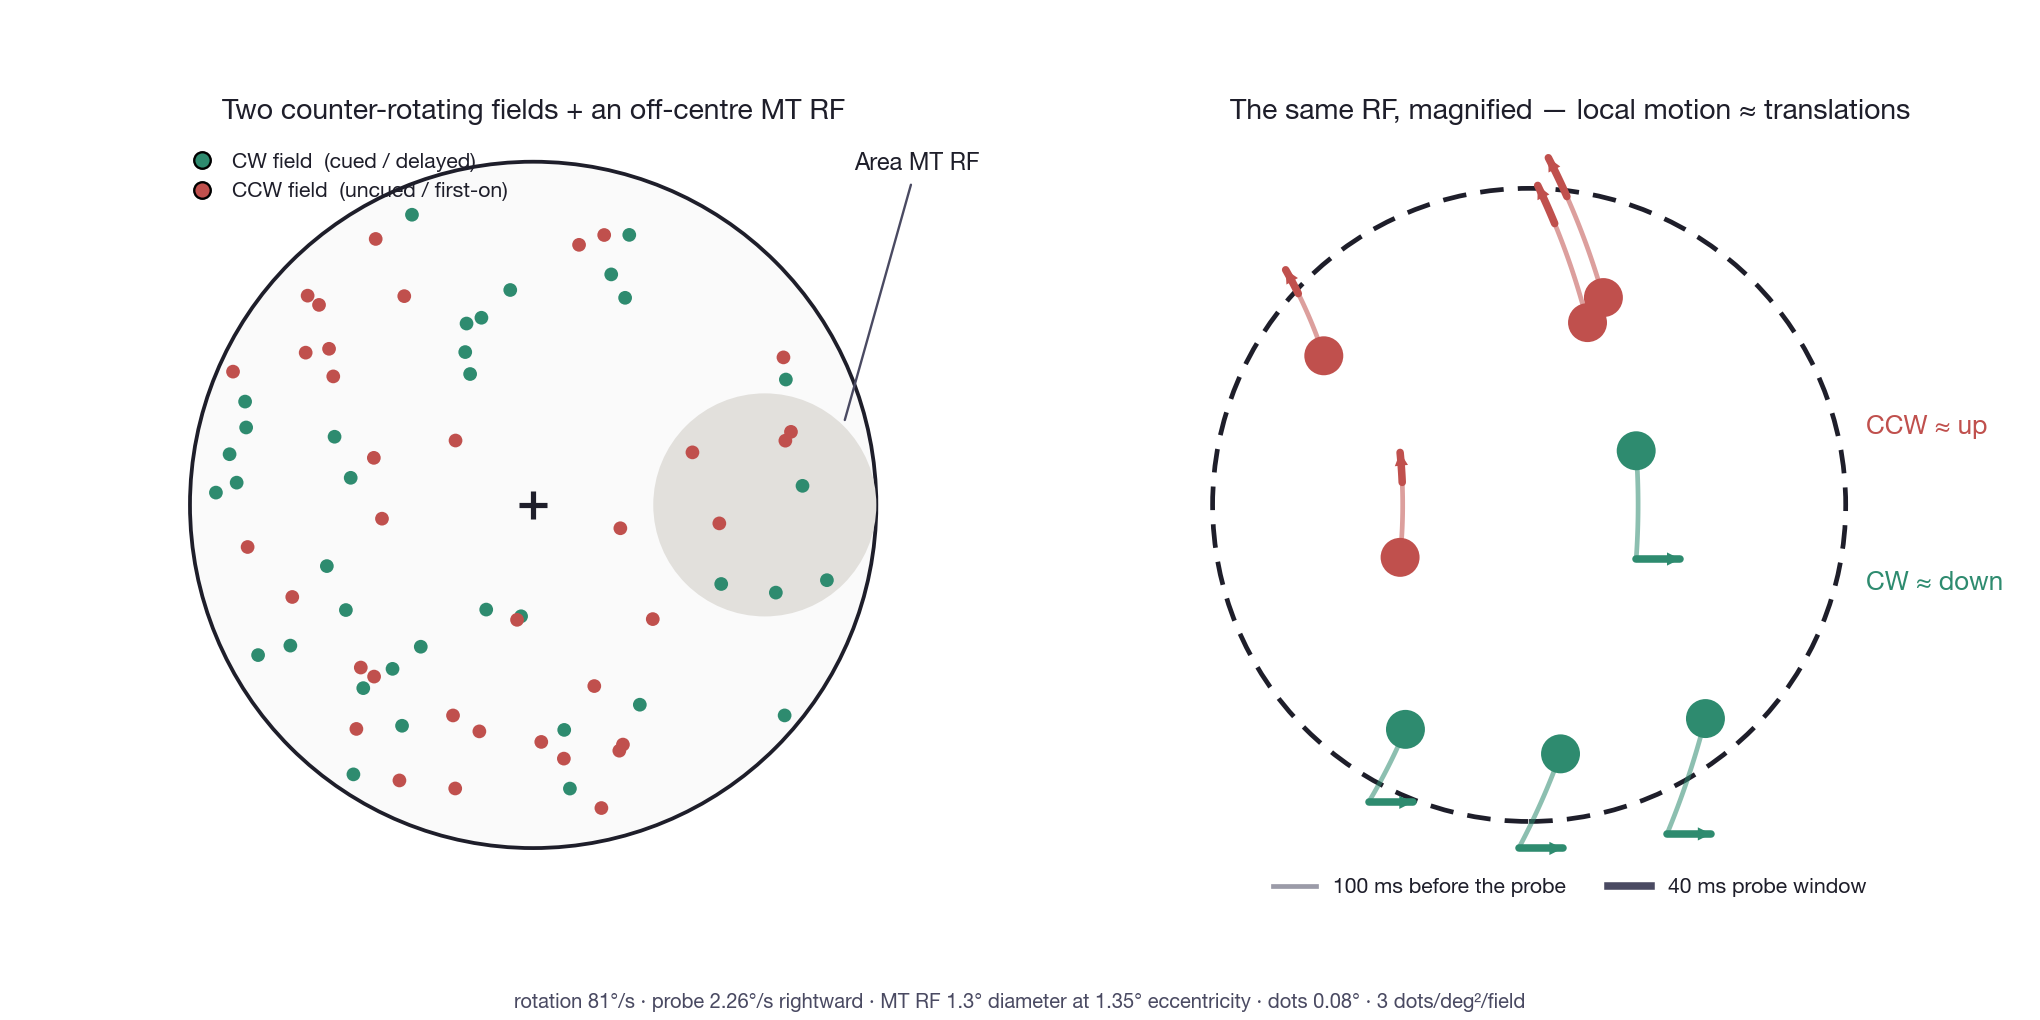
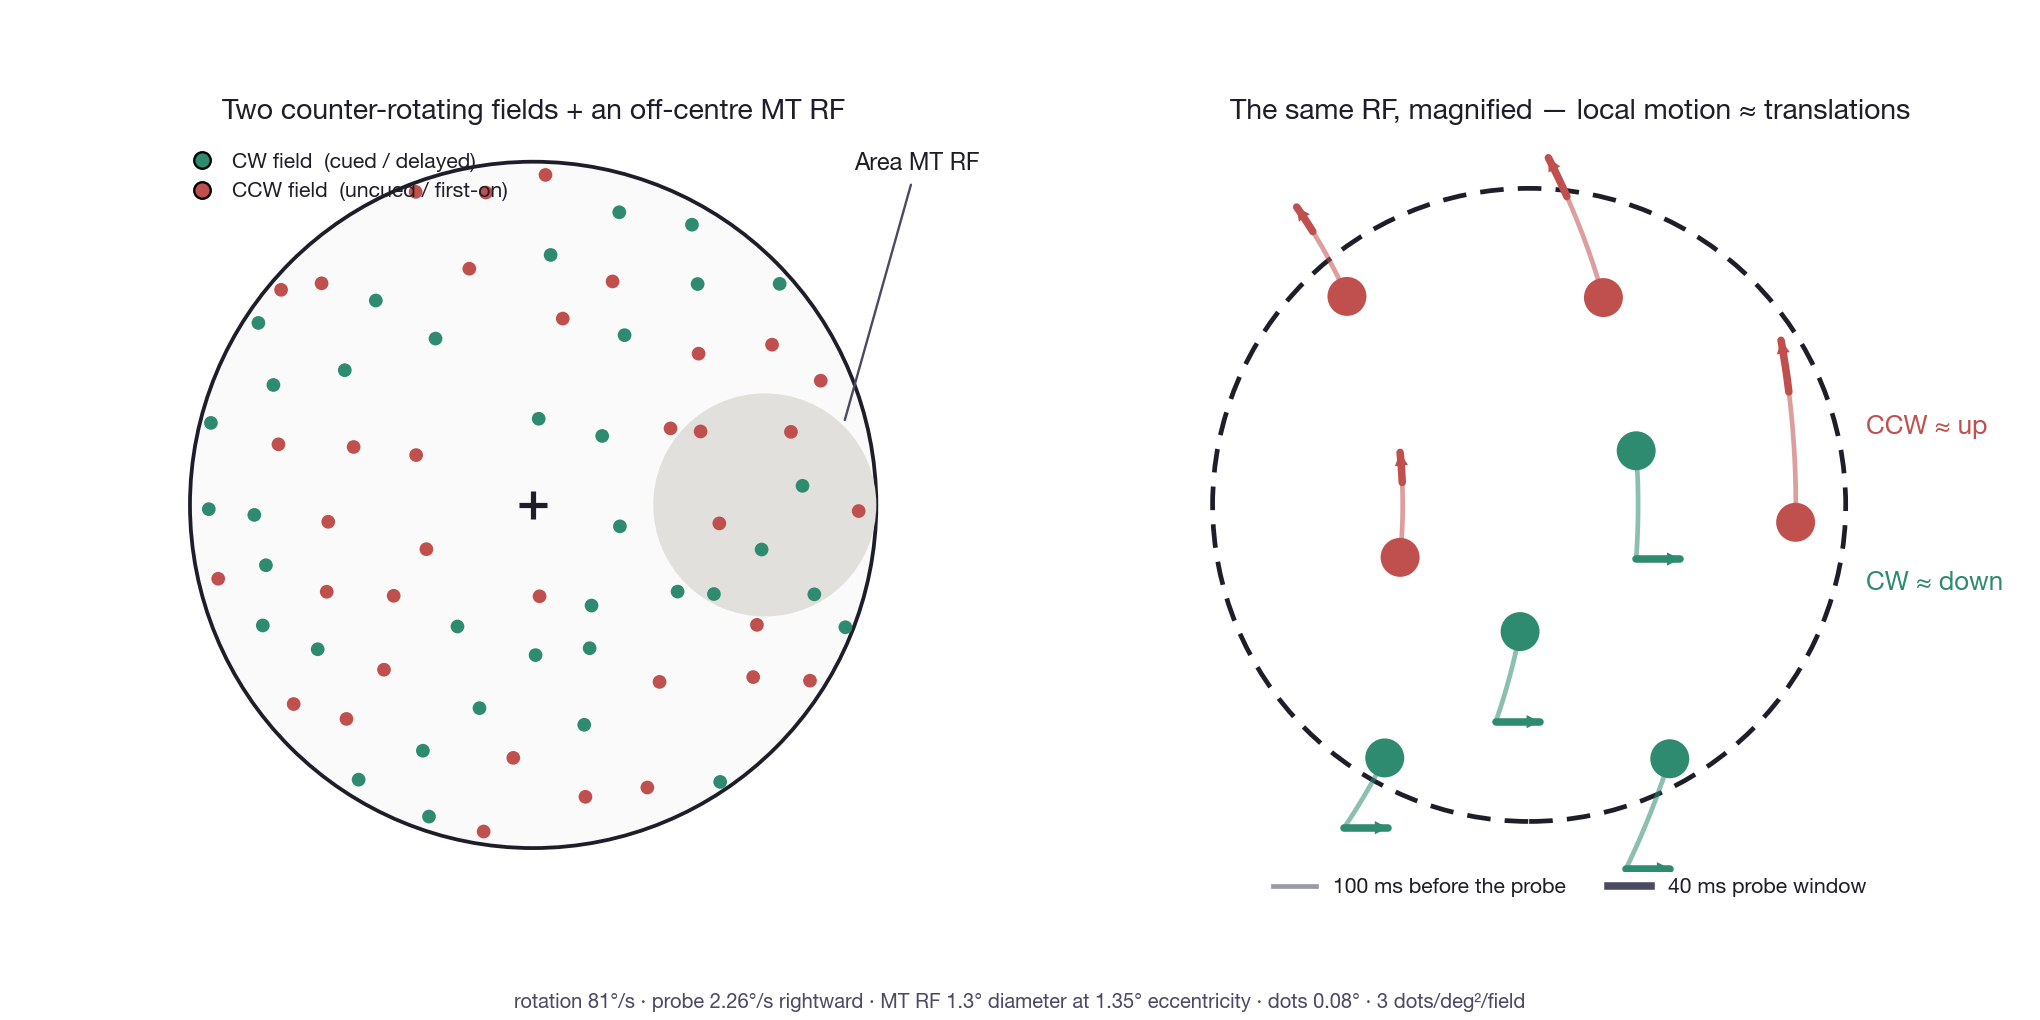
Blue-noise the dots outside the RFs so the illustration is not lopsided
GS: the left half held visibly more dots than the right. Independent uniform
sampling clumps — correct for a real stimulus, wrong for an illustration, where a
chance run on one side reads as a property of the display rather than of the draw.

`_sample_spread` replaces `_sample`: Mitchell best-candidate. For each new dot it
draws k=14 random candidates and keeps whichever lies farthest from everything
already placed. Spacing is measured against BOTH fields together, not each
separately — that is what keeps the UNION even rather than only each colour.
k sets the character: k=1 is plain random, large k tends to a lattice; 14 removes
visible clumping while still looking drawn.

Measured over the 64 dots outside the MT RF:

                        before      after     expected by area
    left / right        45 / 19    34 / 30       36 / 28
    excess over area       9          2
    spacing CV           0.64       0.16
    min spacing         0.031      0.234

Note the left/right target is NOT 32/32: the MT RF sits wholly in x > 0 and carves
1.33 deg^2 out of that half, so the region outside it is 56% left by area. Part of
what looked lopsided was real geometry; the excess above that was the draw, and
that is what this removes.

The two selected dots are untouched, as asked — they come from `_centred_start`,
which is deterministic and does not touch the RNG. Verified identical at
(+1.0850,-0.1077) and (+1.5698,+0.1111); containment still 1.62x / 1.50x, MT RF
[…]

diff --git a/Agents/Modeling/sb2010/ps_stimulus_common.py b/Agents/Modeling/sb2010/ps_stimulus_common.py
@@ -210,21 +210,42 @@ def _clears_v1(p0, sense, translates):
     return True
 
 
-def _sample(n, rng, accept, sense, translates, tries=200000):
-    """Rejection-sample `n` start positions in the annulus satisfying `accept`,
-    each of which also clears both V1 RFs for the whole window."""
-    out = []
-    for _ in range(tries):
-        if len(out) == n:
-            break
-        r = np.sqrt(rng.uniform(EXCL_DEG**2, (APERTURE_DEG - 0.04)**2))
-        a = rng.uniform(0, 2 * np.pi)
-        p = np.array([r * np.cos(a), r * np.sin(a)])
-        if accept(p) and _clears_v1(p, sense, translates):
-            out.append(p)
-    if len(out) != n:
-        raise RuntimeError(f"could only place {len(out)} of {n} dots")
-    return out
+def _sample_spread(n_each, rng, accept, senses, k=14, tries=4000):
+    """Blue-noise sampling: place 2 x `n_each` dots (alternating colour) so the
+    UNION of the two fields is evenly spread, while each position is still drawn
+    at random.
+
+    Independent uniform sampling clumps — that is correct for a real stimulus and
+    wrong for an illustration, where a chance run of dots on one side reads as a
+    property of the display rather than of the draw. For each new dot we take `k`
+    random candidates and keep whichever lies farthest from everything already
+    placed (Mitchell's best-candidate). Spacing against BOTH fields, not each
+    separately, is what keeps the union even rather than only each colour.
+
+    `k` sets how far from uniform it stays: k=1 is plain random, large k tends to
+    a lattice. 14 is enough to remove visible clumping while still looking drawn.
+    """
+    placed = []
+    out = {"A": [], "B": []}
+    for i in range(2 * n_each):
+        which = "A" if i % 2 == 0 else "B"
+        sense, translates = senses[which]
+        best_p, best_d = None, -1.0
+        for _ in range(k):
+            for _ in range(tries):
+                r = np.sqrt(rng.uniform(EXCL_DEG**2, (APERTURE_DEG - 0.04)**2))
+                a = rng.uniform(0, 2 * np.pi)
+                p = np.array([r * np.cos(a), r * np.sin(a)])
+                if accept(p) and _clears_v1(p, sense, translates):
+                    break
+            else:
+                raise RuntimeError("could not place a dot in this region")
+            d = (min(np.hypot(*(p - q)) for q in placed) if placed else np.inf)
+            if d > best_d:
+                best_d, best_p = d, p
+        placed.append(best_p)
+        out[which].append(best_p)
+    return out["A"], out["B"]
 
 
 def build_layout(seed=7):
@@ -242,14 +263,13 @@ def build_layout(seed=7):
     mt_area = np.pi * MT_R_DEG**2 - 2 * np.pi * RF_R_DEG**2
     n_fill = int(round(DENSITY * mt_area))
     in_mt = lambda p: np.hypot(p[0] - MT_C[0], p[1] - MT_C[1]) < MT_R_DEG - DOT_DIAM_DEG / 2
-    fill_a = _sample(n_fill, rng, in_mt, "CCW", trA)
-    fill_b = _sample(n_fill, rng, in_mt, "CW", trB)
+    senses = {"A": ("CCW", trA), "B": ("CW", trB)}
+    fill_a, fill_b = _sample_spread(n_fill, rng, in_mt, senses)
 
     # 3. the rest of the display, same density
     n_pep = N_DOTS - 1 - n_fill
     out_mt = lambda p: np.hypot(p[0] - MT_C[0], p[1] - MT_C[1]) > MT_R_DEG + DOT_DIAM_DEG / 2
-    pep_a = _sample(n_pep, rng, out_mt, "CCW", trA)
-    pep_b = _sample(n_pep, rng, out_mt, "CW", trB)
+    pep_a, pep_b = _sample_spread(n_pep, rng, out_mt, senses)
 
     A = np.vstack([a0[None, :]] + [np.asarray(fill_a), np.asarray(pep_a)])
     B = np.vstack([b0[None, :]] + [np.asarray(fill_b), np.asarray(pep_b)])
